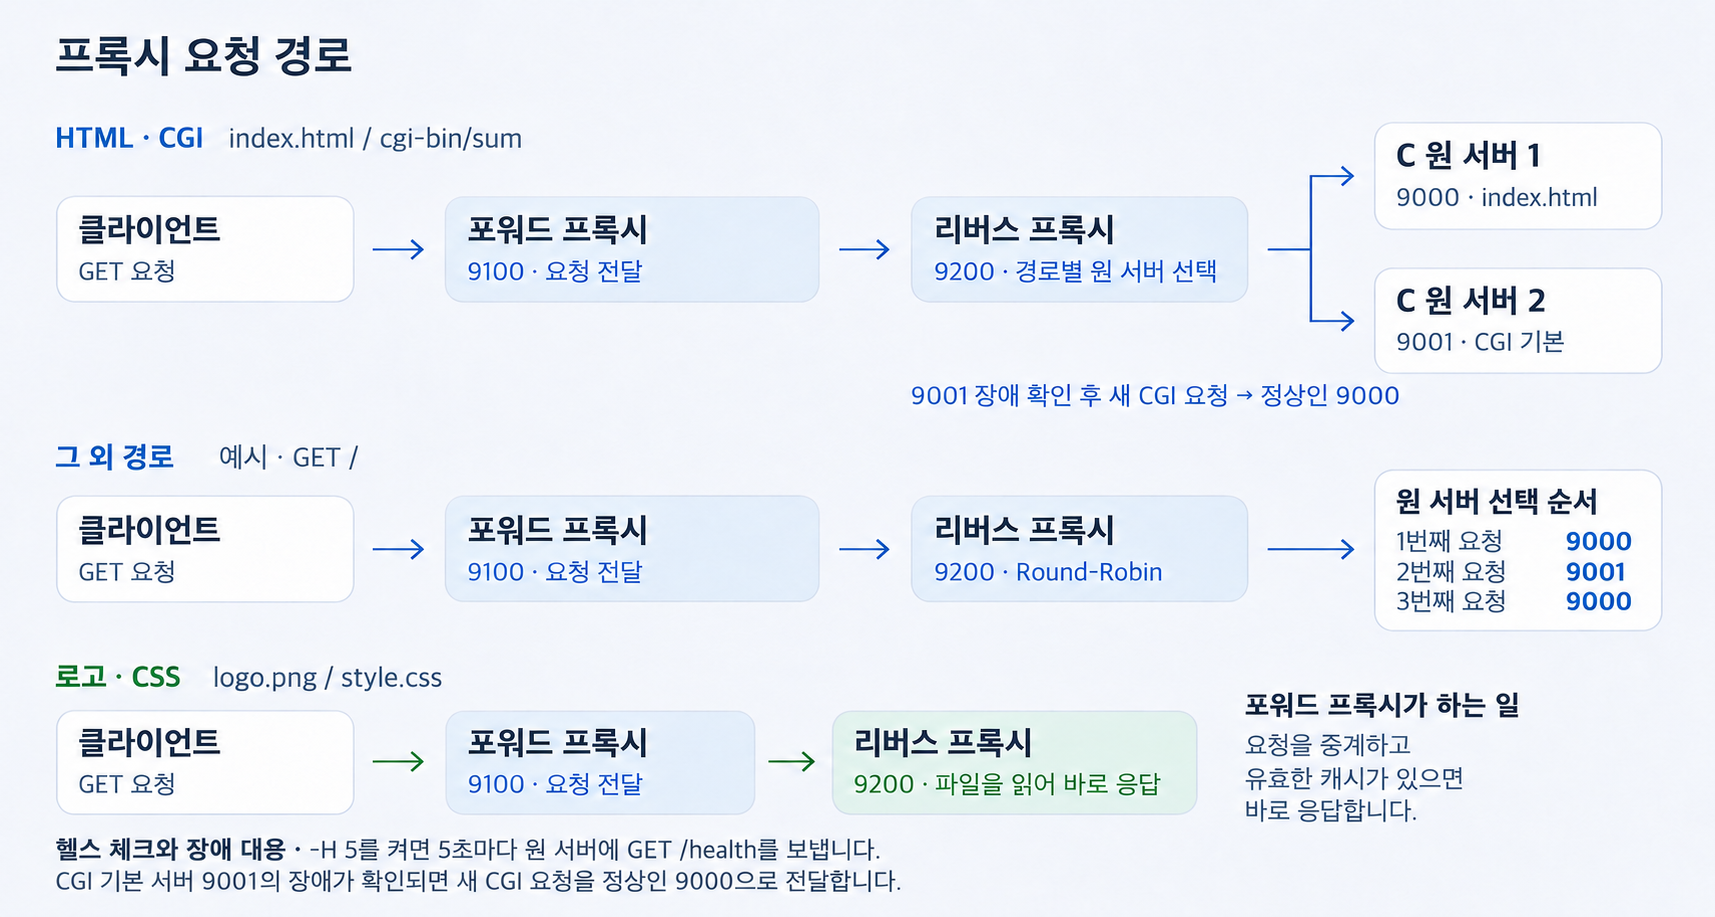
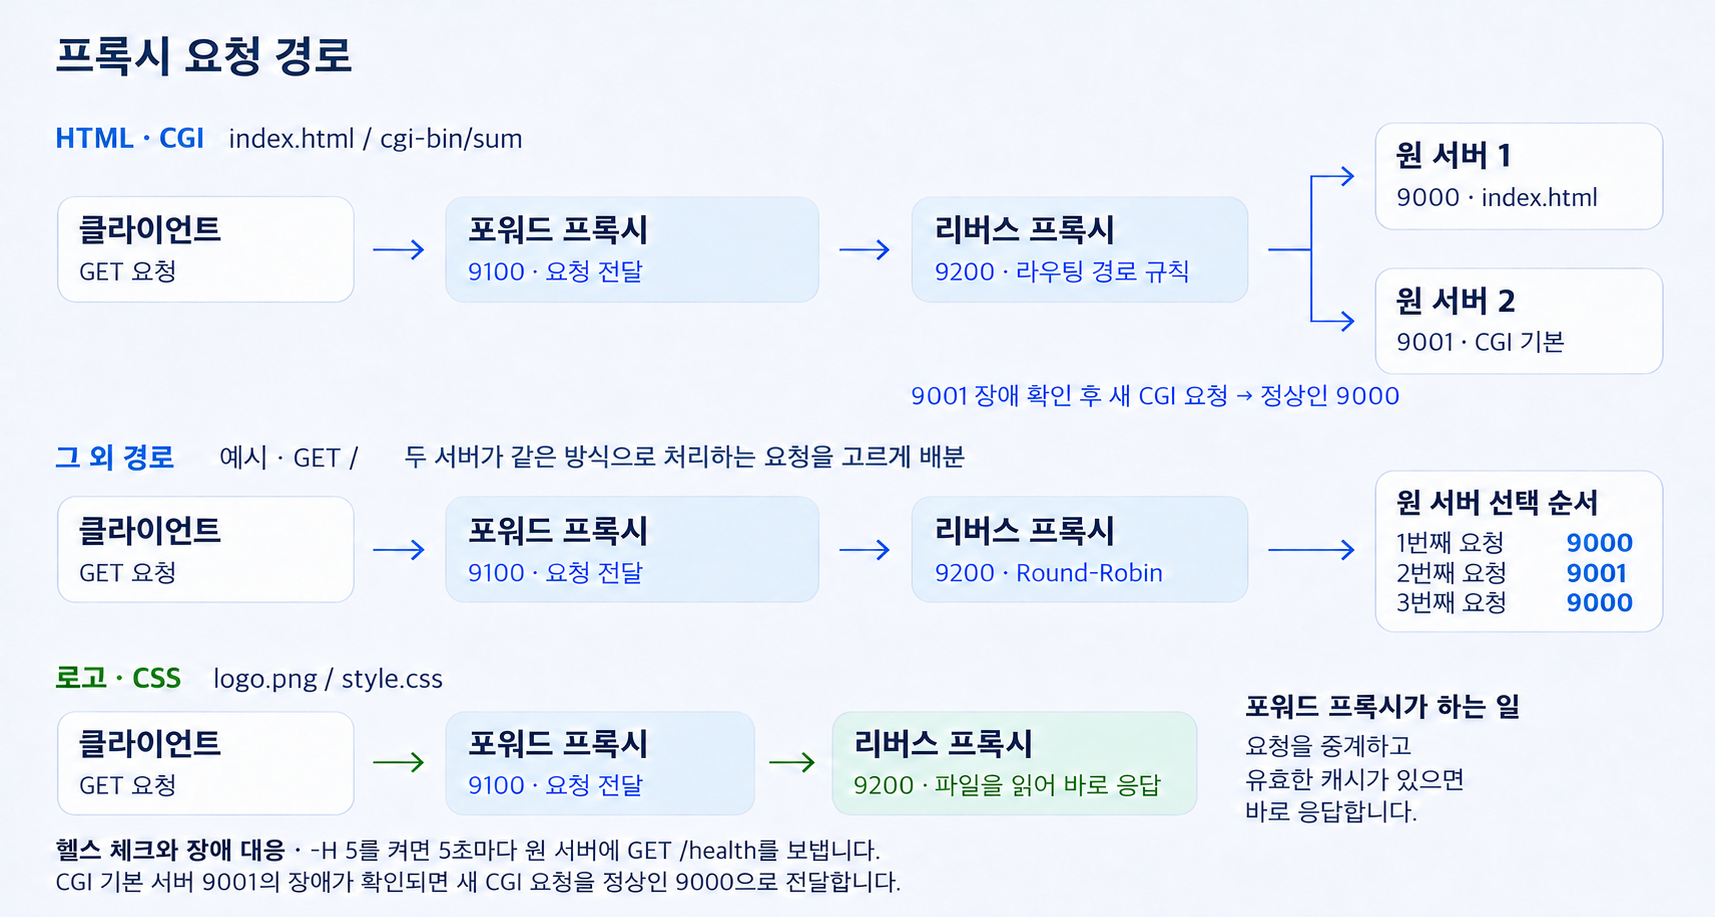
Explain the round-robin choice in the proxy diagram

diff --git a/README.md b/README.md
@@ -5,7 +5,7 @@ POSIX 소켓 API로 HTTP `GET`·`POST`를 처리하는 C 웹 서버를 만들었
 
 ## 포워드 프록시와 리버스 프록시
 
-![프록시 요청 경로. 로고와 CSS 요청은 포워드 9100을 거쳐 리버스 9200에서 응답합니다. HTML과 CGI 요청은 원 서버 9000과 9001로 전달됩니다.](docs/proxy-request-routes-horizontal.png?v=2abef53)
+![프록시 요청 경로. 로고와 CSS 요청은 포워드 9100을 거쳐 리버스 9200에서 응답합니다. HTML과 CGI 요청은 원 서버 9000과 9001로 전달됩니다.](docs/proxy-request-routes-horizontal.png?v=9ea4444)
 
 ### 포워드 프록시 `9100`
 
@@ -22,6 +22,7 @@ POSIX 소켓 API로 HTTP `GET`·`POST`를 처리하는 C 웹 서버를 만들었
 | `/cgi-bin/sum` | `9001`을 우선 선택합니다. `?a=3&b=5` 요청에는 CGI가 `{"sum":8}`을 반환합니다. |
 | `GET /` 등 그 외 경로 | 원 서버 `9000`과 `9001`에 Round-Robin으로 요청을 분산합니다. |
 
+- **라운드 로빈을 선택한 이유** · 두 원 서버는 같은 C 프로그램을 실행합니다. `GET /`처럼 두 서버가 동일하게 처리하는 요청은, 다음 서버의 순번만 기억하는 라운드 로빈으로 요청 건수를 고르게 나눌 수 있습니다.
 - **헬스 체크와 장애 대응** · `-H 5`를 켜면 5초마다 원 서버에 `GET /health`를 보냅니다. CGI 기본 서버 `9001`의 장애가 확인되면 새 CGI 요청을 정상인 `9000`으로 전달합니다. [리버스 프록시 상세](README2.md#리버스-프록시와-round-robin)
 
 ### TCP 연결 재사용과 5초 유휴 타임아웃
